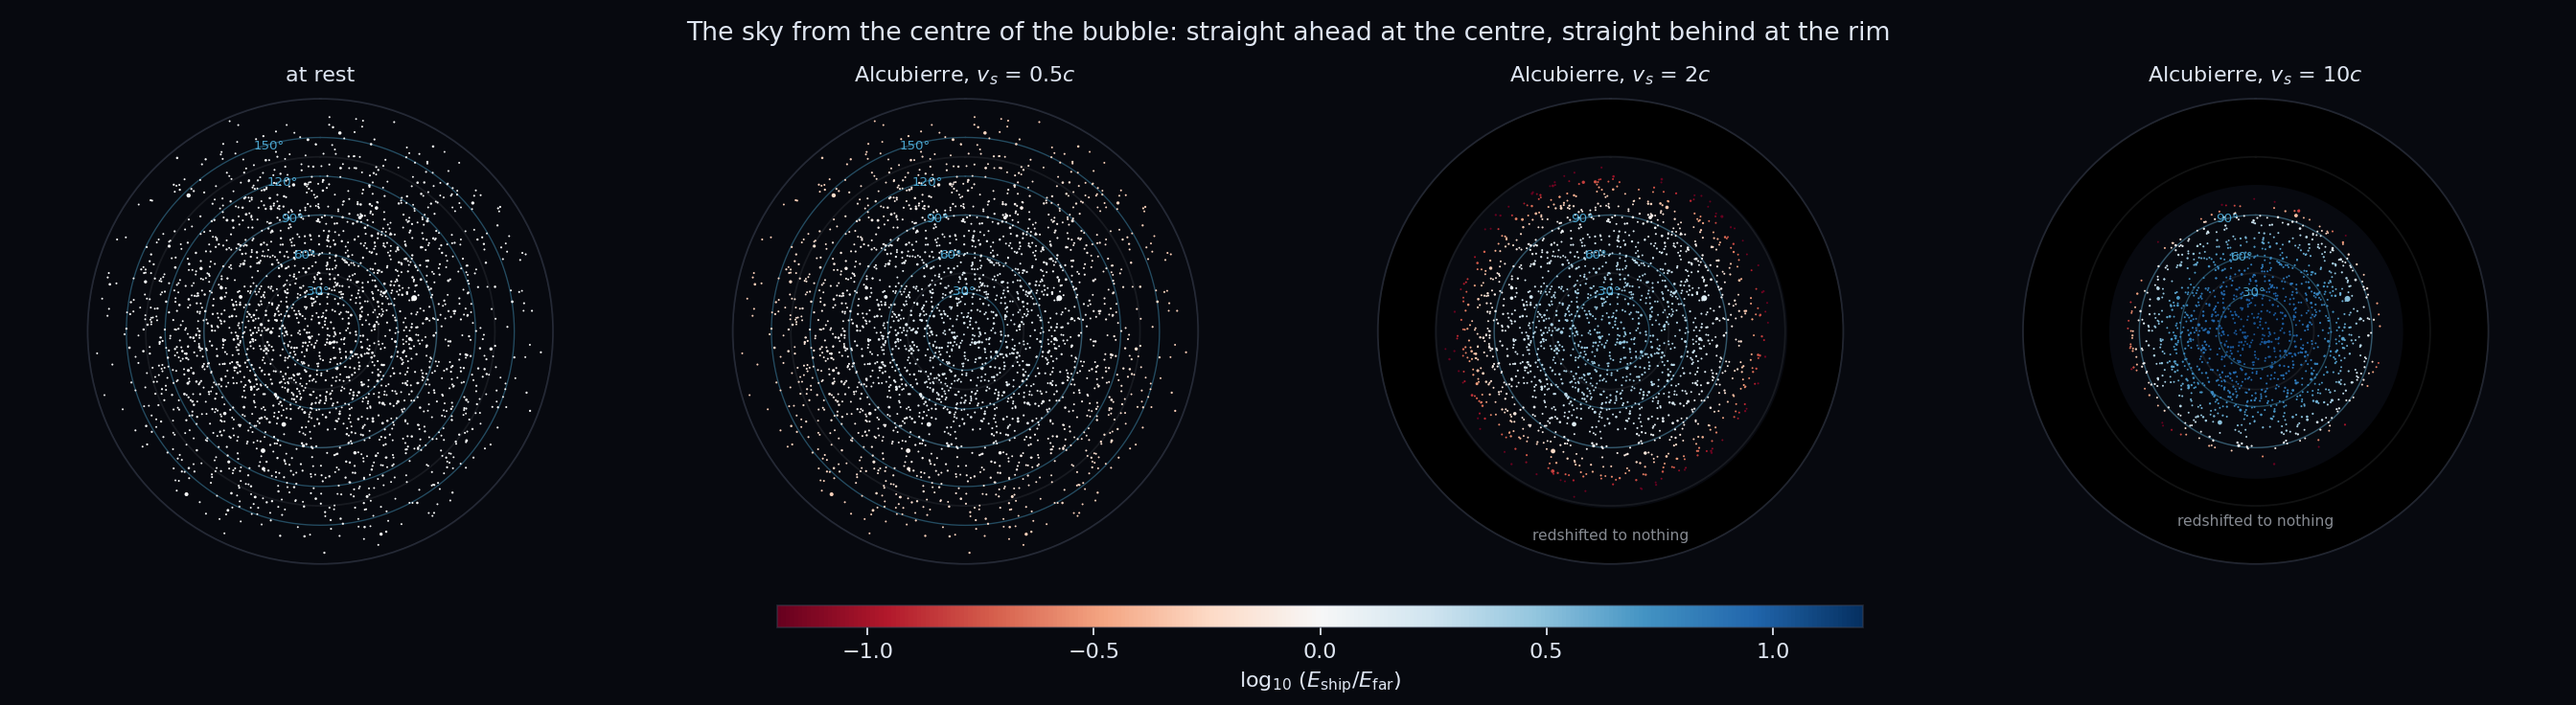
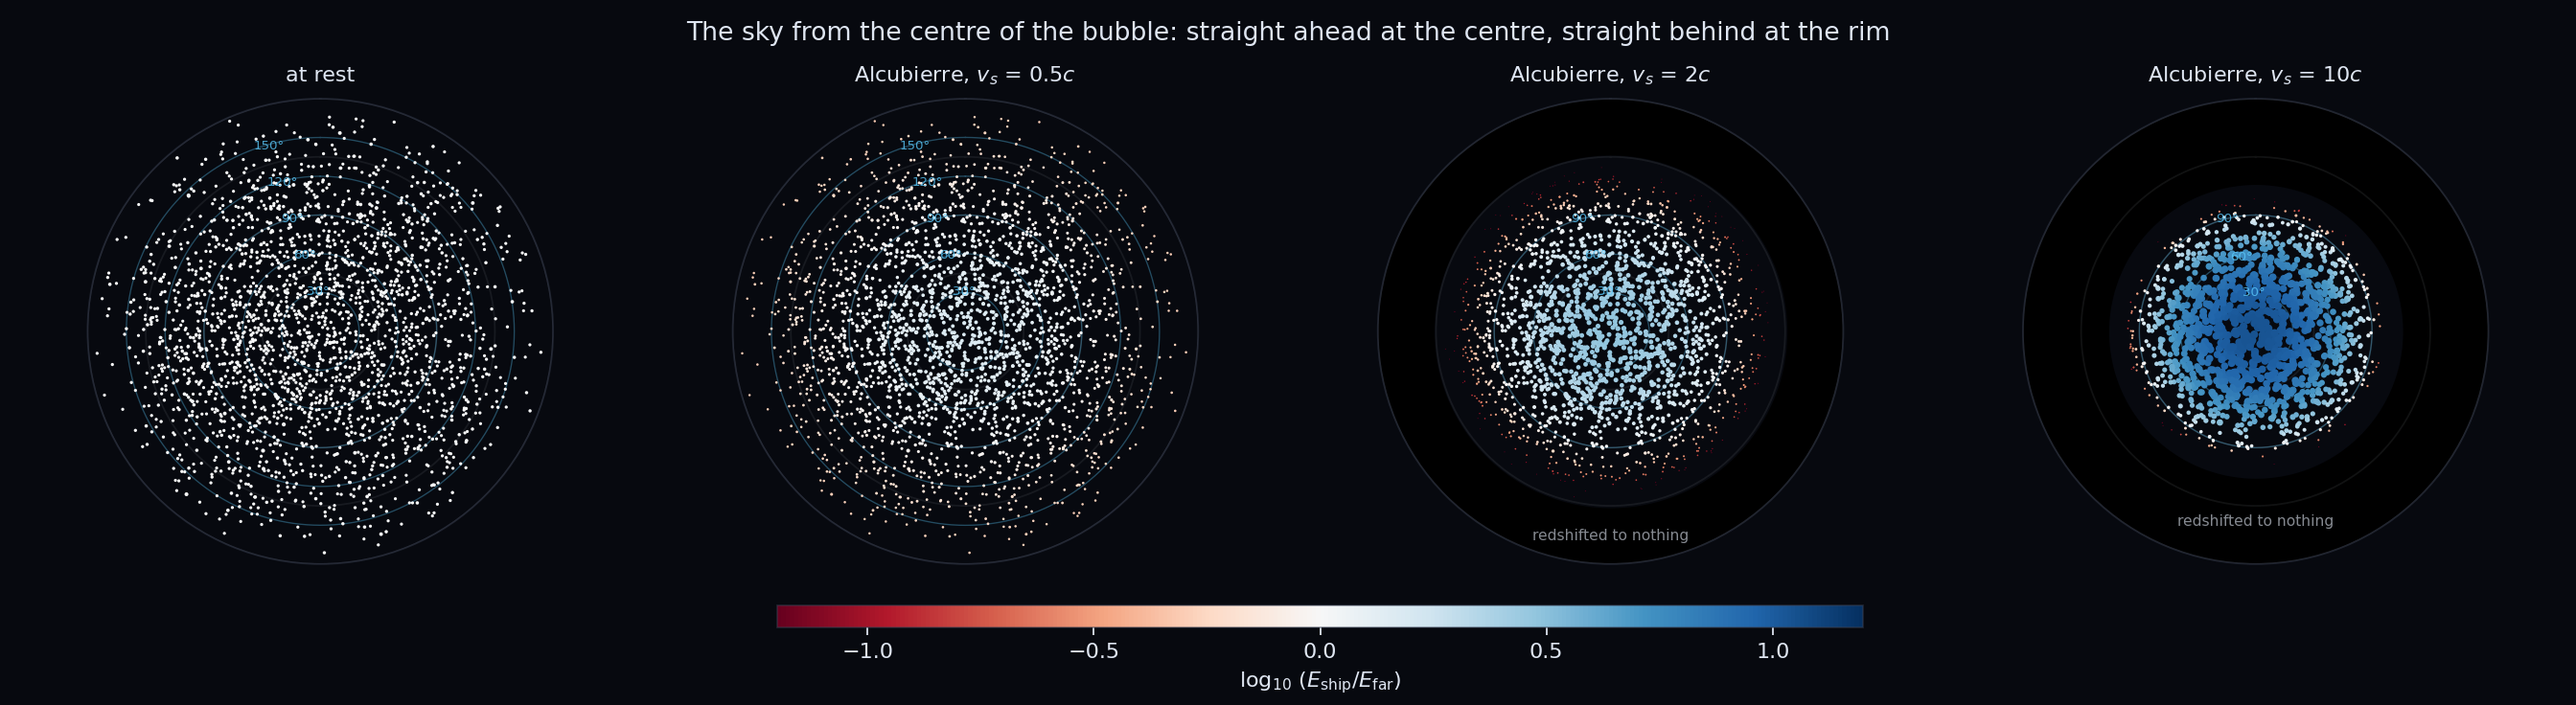
Document the brightness of the sky seen from the bubble
README explains why surface brightness scales as R^4 and a star's flux as
R^4 mu, gives the numbers - a star ahead 1.34e4 times brighter at 10c,
1507 times the ambient starlight overall - and states that the closed
form (1+u)^5/(10u) is the unlensed value, 6 % high at 10c. The bulldozer
item of the obstructions now covers light as well as matter. The sky
images are rebuilt: stars sized by flux, and a flux panel in the mapping
figure; every other README image comes out unchanged.

ROADMAP ticks the brightness item and records the mistaken expectation
that mu drops out, and why the slope of the map is taken along the
evenly spaced look angles.

diff --git a/README.md b/README.md
@@ -347,7 +347,8 @@ consequences, each checked against the ray integrator:
 From the centre the sky is symmetric about the direction of travel, so a fan of
 rays in one plane describes all of it. The views below are fisheye images of a
 procedural star field: straight ahead at the centre of each disc, straight
-behind at the rim, stars coloured by $E_\mathrm{ship}/E_\mathrm{far}$.
+behind at the rim, stars coloured by $E_\mathrm{ship}/E_\mathrm{far}$ and
+sized by the flux they deliver.
 
 ![The sky seen from the centre of the bubble](images/readme/sky_fisheye.png)
 
@@ -355,7 +356,33 @@ Apart from the visible limit, the stars barely move: the apparent angle stays
 close to the true one until the last few degrees, where the sky is stretched
 over the rest of the view and redshifted to nothing.
 
-![Apparent angle and blueshift against the true angle](images/readme/sky_mapping.png)
+**Brightness.** $I_\nu/\nu^3$ is conserved along a ray, so the surface
+brightness of the sky scales as the fourth power of the frequency ratio
+$R = E_\mathrm{ship}/E_\mathrm{far}$. A star is a point, so its flux also
+carries the magnification $\mu$, the ratio of the solid angles it covers with
+and without the bubble:
+
+```math
+\frac{F_\mathrm{ship}}{F_\mathrm{far}} = R^4\,\mu, \qquad \mu = \frac{\sin\theta_\mathrm{look}}{\sin\theta_\mathrm{source}}\,\frac{d\theta_\mathrm{look}}{d\theta_\mathrm{source}}
+```
+
+A star straight ahead arrives $`(1 + v_s/c)^4\,\mu`$ times brighter:
+$1.34 \times 10^4$ times at $10c$, where $11^4 = 14641$ is reduced by
+$\mu = 0.91$. Integrated over the view, an isotropic background of starlight
+reaches the crew
+
+```math
+\frac{1}{4\pi}\int R^4\,d\Omega_\mathrm{look} = \frac{1}{4\pi}\int R^4\,\mu\,d\Omega_\mathrm{source}
+```
+
+times brighter than at rest: 1.51 at $0.5c$, 12.1 at $2c$ and **1507 at
+$10c$**, most of it shifted into the ultraviolet. If the bubble shifted
+frequencies but left the stars in place ($\mu = 1$) the integral would have the
+closed form $[(1 + u)^5 - \max(0, 1 - u)^5]/(10u)$, with $u = v_s/c$; the
+distortion of the sky takes 6 % off it at $10c$. Both integrals are computed
+from the traced rays and agree to $10^{-6}$.
+
+![Apparent angle, blueshift and flux against the true angle](images/readme/sky_mapping.png)
 
 For a ship at the centre, Van Den Broeck's pocket changes nothing: $B$ is
 spherically symmetric, so rays leaving the centre cross it radially and only
@@ -422,7 +449,9 @@ Known obstructions, in rough order of severity:
 6. **The bulldozer problem.** The animation shows it directly: particles near
    the axis are captured, since $f = 1$ forces them to $\dot{x} = v_s$. The
    bubble sweeps up interstellar matter and releases it, extremely blueshifted,
-   at the destination (McMonigal, Lewis & O'Byrne 2012).
+   at the destination (McMonigal, Lewis & O'Byrne 2012). Light does the same
+   to the crew: at $10c$ the ship receives about 1500 times the ambient
+   starlight, blueshifted by up to a factor of 11.
 
 Modern work moves toward *subluminal* solitons with positive energy —
 Bobrick & Martire (2021), Lentz (2021), Fell & Heisenberg (2021),

diff --git a/ROADMAP.md b/ROADMAP.md
@@ -156,9 +156,8 @@ one where the derivation carries the whole weight, and it exercises terms of
 - [x] Rendered star field at several $v_s$, for both metrics
       (`viz/sky.py`, `scripts/run_sky.py`)
 - [ ] Observer away from the centre of the pocket, one ray per pixel in 3D
-- [ ] Brightness of the sources, not only their colour: specific intensity
-      scales as $I_\nu/\nu^3$ and the solid angle is compressed near the
-      visible limit
+- [x] Brightness of the sources: flux $R^4\mu$ for a star, light received
+      from an isotropic background, and the effect of lensing on it
 
 The plan written before the implementation had two things wrong, recorded here
 because the tests now pin both.
@@ -204,6 +203,16 @@ Implementation notes:
   integration limit, tracing rays forwards; the blueshift still matched, since
   $H$ is conserved either way, and only the side on which the rear ray stalled
   exposed it;
+- brightness: $I_\nu/\nu^3$ is conserved, so surface brightness scales as
+  $R^4$ and a star's flux as $R^4\mu$. The plan expected $\mu$ to drop out of
+  the light received from an isotropic sky, leaving the closed form
+  $[(1+u)^5 - \max(0,1-u)^5]/(10u)$; it does not, since
+  $`\int R^4\,d\Omega_\mathrm{look} = \int R^4\mu\,d\Omega_\mathrm{source}`$. The
+  closed form is the unlensed value, 6 % above the traced one at $10c$;
+- $\mu$ needs the slope of the map from source to apparent angle. Taken as
+  $d\theta_\mathrm{source}/d\theta_\mathrm{look}$ on the evenly spaced look
+  angles and inverted it converges at second order, which a test checks;
+  differentiated along the uneven source angles it was far less accurate;
 - for a ship at the centre the two metrics show the same sky: $B$ is
   spherically symmetric and absent from the blueshift. Seeing the pocket needs
   the off-centre observer above.
